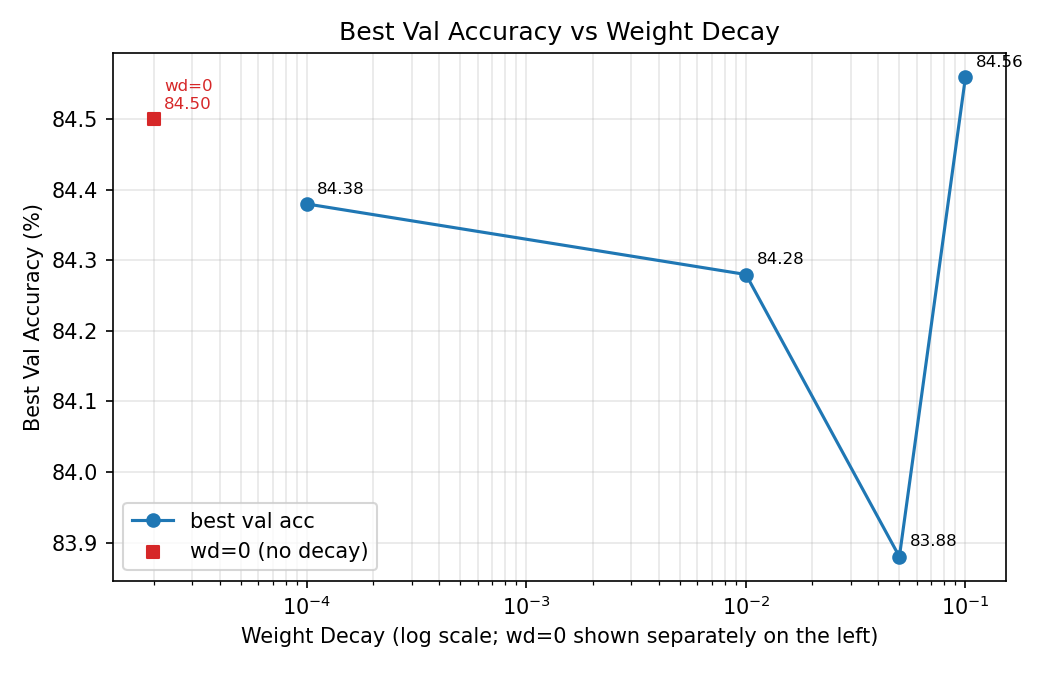
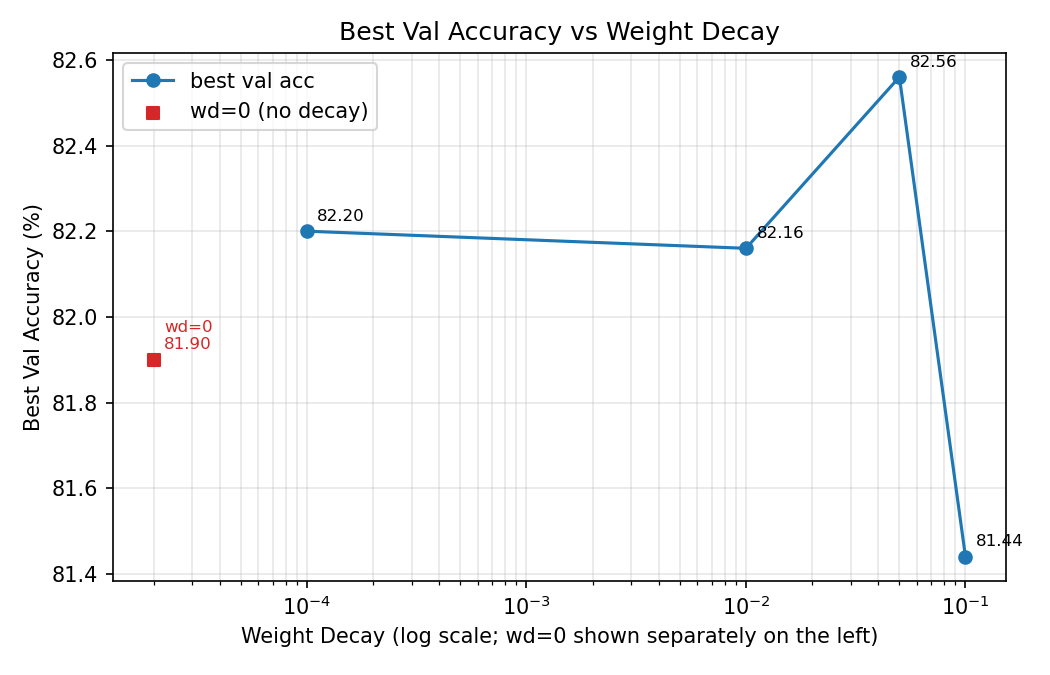
Report: weight decay 100-epoch main results, figures, and table updates.

diff --git a/sections/experiments_weight_decay.tex b/sections/experiments_weight_decay.tex
@@ -7,19 +7,23 @@
 This subsection reports the results of the weight-decay sweep defined in
 \cref{sec:method:wd}, evaluated under the shared protocol of
 \cref{sec:exp:training,sec:exp:eval}. The only variable that changes is
-the AdamW decoupled weight-decay coefficient $\lambda$.
+the AdamW decoupled weight-decay coefficient $\lambda$. Because the group
+baseline was later standardized to 100 epochs, we treat the 100-epoch
+sweep as the main result and keep the original 30-epoch sweep as a
+short-horizon reference.
 
 \paragraph{Aggregate numbers.}
-\Cref{tab:wd} reports best validation accuracy, final test accuracy,
-the train--val gap at the best-val epoch, and wall-clock training
-time for each weight-decay setting.
+\Cref{tab:wd} reports best validation accuracy, final test accuracy, and
+the train--val gap at the best-validation epoch for the 100-epoch sweep.
+The table also includes the original 30-epoch validation and test
+accuracy so that the effect of extending the training horizon is visible.
 
 \input{tables/wd_results}
 
 \paragraph{Learning curves.}
 \Cref{fig:wd-curves} shows the training and validation trajectories
 for the full sweep. The figure reports optimization behavior over the
-entire 30-epoch schedule for all five weight-decay settings.
+entire 100-epoch schedule for all five weight-decay settings.
 
 \begin{figure}[t]
   \centering
@@ -36,8 +40,9 @@ entire 30-epoch schedule for all five weight-decay settings.
   \end{minipage}
   \caption{Learning curves for the weight-decay sweep
   $\lambda \in \{0, 10^{-4}, 10^{-2}, 5\times 10^{-2}, 10^{-1}\}$.
-  The left panel reports loss and the right panel reports accuracy for
-  both training and validation.}
+  The plots show the 100-epoch runs, which are the main protocol used for
+  the final weight-decay analysis. The left panel reports loss and the
+  right panel reports accuracy for both training and validation.}
   \label{fig:wd-curves}
 \end{figure}
 
@@ -45,7 +50,10 @@ entire 30-epoch schedule for all five weight-decay settings.
 \Cref{fig:wd-gap} plots the train--val accuracy gap as a function of
 training epoch for each $\lambda$. A flat or shrinking gap at large
 $\lambda$ is direct evidence that weight decay is constraining
-memorization rather than just trading capacity for regularization.
+memorization rather than just trading capacity for regularization. In the
+100-epoch runs, all settings eventually develop a large gap of roughly
+11 percentage points, indicating substantial overfitting under the longer
+fine-tuning horizon.
 
 \begin{figure}[t]
   \centering
@@ -59,27 +67,41 @@ memorization rather than just trading capacity for regularization.
 \paragraph{Best validation accuracy as a function of $\lambda$.}
 \Cref{fig:wd-best-val} summarizes the sweep by plotting best
 validation accuracy against $\lambda$ on a log-x axis. This is the
-single plot that answers ``what coefficient should I pick?''
+single plot that answers ``what coefficient should I pick?'' under the
+100-epoch protocol.
 
 \begin{figure}[t]
   \centering
   \includegraphics[width=0.62\linewidth]{best_val_vs_wd.png}
   \caption{Best validation accuracy versus weight-decay strength
-  $\lambda$ for the 30-epoch sweep.}
+  $\lambda$ for the 100-epoch sweep.}
   \label{fig:wd-best-val}
 \end{figure}
 
 \paragraph{Results summary.}
-The aggregate numbers in \cref{tab:wd} place all five settings within a
-narrow accuracy range. The highest validation accuracy is obtained at
-$\lambda=10^{-1}$ with $84.56\%$, while the highest test accuracy is
-obtained at $\lambda=0$ with $84.75\%$. The near-baseline setting
-$\lambda=10^{-2}$ reaches a similar test accuracy of $84.74\%$. In
-terms of overfitting proxy, the smallest train--val gap at the
-best-validation epoch is also observed at $\lambda=10^{-1}$, whereas the
-wall-clock training times remain essentially identical across the sweep
-at approximately 31--32 minutes per run. The interpretation of these
-patterns is deferred to the later analysis section.
+Under the 100-epoch protocol, moderate weight decay provides a small but
+consistent improvement over the no-decay control. The baseline
+$\lambda=0$ reaches $81.90\%$ best validation accuracy and $81.81\%$ test
+accuracy. The best setting is $\lambda=5\times10^{-2}$, which reaches
+$82.56\%$ best validation accuracy and $82.23\%$ test accuracy, improving
+test accuracy by $0.42$ percentage points over the no-decay control.
+The nearby settings $\lambda=10^{-4}$ and $\lambda=10^{-2}$ also improve
+test accuracy by $0.40$ and $0.36$ percentage points, respectively. In
+contrast, $\lambda=10^{-1}$ drops to $81.25\%$ test accuracy, suggesting
+that overly strong decay begins to suppress useful model capacity.
+
+The 30-epoch sweep gives a different short-horizon picture: the
+no-decay control obtains the highest test accuracy ($84.75\%$), while
+nonzero decay values remain within a narrow band. This discrepancy
+should not be interpreted as a contradiction. Changing the total number
+of epochs also changes the cosine learning-rate trajectory
+($T_{\max}=E-3$ after the 3-epoch warmup), so the 100-epoch run is not
+merely the 30-epoch model trained for 70 additional epochs. Instead, the
+longer schedule exposes stronger overfitting, as shown by the train--val
+gap increasing from roughly 5 percentage points in the 30-epoch runs to
+roughly 11 percentage points in the 100-epoch runs. In this longer
+regime, moderate weight decay becomes mildly beneficial but still not a
+dominant source of generalization improvement.
 
 \paragraph{Limitations.}
 \label{sec:wd:limitations}
@@ -91,4 +113,5 @@ conclusions do not necessarily transfer to the longer, more strongly
 regularized training regime often used for DeiT-style recipes
 \citep{touvron2021deit}. The small absolute spread across neighboring
 $\lambda$ values is therefore itself a result: within this controlled
-30-epoch protocol, weight decay is not a dominant factor.
+fine-tuning setup, weight decay is a weak but measurable regularization
+knob rather than a dominant factor.

diff --git a/sections/comparison.tex b/sections/comparison.tex
@@ -31,29 +31,25 @@ to its own hyperparameter.
 
 \subsection{Weight Decay Analysis}
 \label{sec:comp:wd-analysis}
-Within the shared 30-epoch fine-tuning protocol, weight decay behaves as
-a weak regularization knob rather than a dominant driver of
-generalization. The best test accuracy remains the no-decay baseline
-($84.75\%$ at $\lambda=0$), while the closest nonzero setting,
-$\lambda=10^{-2}$, reaches $84.74\%$; this difference is too small to
-support a meaningful practical advantage for tuning weight decay in this
-regime. At the same time, the strongest decay in the sweep
-($\lambda=10^{-1}$) attains the highest validation accuracy
-($84.56\%$) and the smallest train--val gap ($4.97$ percentage points),
-showing that validation-selected and test-selected optima do not fully
-coincide.
+With the updated 100-epoch horizon, weight decay behaves as a weak but
+measurable regularization knob. The no-decay control reaches $81.81\%$
+test accuracy, while $\lambda=5\times10^{-2}$ reaches the best validation
+accuracy ($82.56\%$) and the best test accuracy ($82.23\%$). The absolute
+gain is modest ($+0.42$ percentage points), and the neighboring nonzero
+settings $\lambda=10^{-4}$ and $\lambda=10^{-2}$ obtain similar test
+accuracy ($82.21\%$ and $82.17\%$). This pattern suggests a broad,
+low-amplitude optimum rather than a sharply tuned coefficient.
 
-\Cref{fig:wd-best-val,fig:wd-gap} suggests that the main effect of
-stronger decay is a modest reduction in memorization rather than a large
-improvement in final accuracy. Relative to the baseline, $\lambda=10^{-1}$
-reduces the gap at the best-validation epoch by about $0.41$ percentage
-points while preserving competitive validation performance. However,
-$\lambda=5\times10^{-2}$ lowers both validation and test accuracy
-without reducing the gap, which is more consistent with capacity
-suppression than with useful regularization. Taken together, the sweep
-indicates that pretrained ViT-Tiny on CIFAR-100 is only mildly
-overfitting under this short training horizon, leaving limited room for
-weight decay to improve upon the baseline.
+\Cref{fig:wd-best-val,fig:wd-gap} also shows the cost of making the
+regularizer too strong. The aggressive setting $\lambda=10^{-1}$ drops
+to $81.25\%$ test accuracy, below the no-decay control. Its lower
+training accuracy indicates capacity suppression rather than useful
+regularization. Compared with the original 30-epoch sweep, the 100-epoch
+run exhibits a much larger train--val gap (about 11 percentage points
+instead of about 5), so moderate decay becomes more useful only after the
+longer schedule creates more overfitting pressure. Even then, the effect
+size remains small enough that the ranking should be treated cautiously
+without multi-seed confirmation.
 
 \subsection{Which Family Matters Most for ViT?}
 \label{sec:comp:discussion}

diff --git a/tables/wd_results.tex b/tables/wd_results.tex
@@ -1,27 +1,34 @@
 % Weight-decay sweep results. Owner: Member 2.
-% Replace -- placeholders with real numbers from the runs.
-% Convention: best value per column in \textbf{...}; consistent decimals.
+% Main protocol: 100 epochs. Original 30-epoch results retained as supplemental
+% evidence because they motivated the longer-run diagnostic.
 
 \begin{table}[t]
   \centering
   \small
   \caption{Effect of AdamW weight-decay strength $\lambda$ on
-  ViT-Tiny/16 fine-tuned on CIFAR-100. All other hyperparameters fixed
-  per \cref{sec:exp:training}. Best per column in bold.}
+  ViT-Tiny/16 fine-tuned on CIFAR-100. The 100-epoch sweep is the main
+  result; the original 30-epoch sweep is retained as a supplemental
+  short-horizon reference. Best values within the 100-epoch columns are
+  bolded.}
   \label{tab:wd}
   \resizebox{\columnwidth}{!}{%
-  \begin{tabular}{lcccc}
+  \begin{tabular}{lccccc}
     \toprule
-    Weight decay $\lambda$ & Best val acc (\%) $\uparrow$
-                          & Test acc (\%) $\uparrow$
-                          & Train--val gap (pp) $\downarrow$
-                          & Train time (min) \\
+    Weight decay $\lambda$
+      & \multicolumn{3}{c}{100 epochs}
+      & \multicolumn{2}{c}{30 epochs} \\
+    \cmidrule(lr){2-4}\cmidrule(lr){5-6}
+      & Best val (\%) $\uparrow$
+      & Test (\%) $\uparrow$
+      & Gap (pp) $\downarrow$
+      & Best val (\%) $\uparrow$
+      & Test (\%) $\uparrow$ \\
     \midrule
-    $0$                   & 84.50 & \textbf{84.75} & 5.38 & 31.5 \\
-    $10^{-4}$             & 84.38 & 84.31 & 5.28 & 31.5 \\
-    $10^{-2}$             & 84.28 & 84.74 & 5.54 & \textbf{31.3} \\
-    $5 \times 10^{-2}$    & 83.88 & 84.05 & 5.54 & 31.5 \\
-    $10^{-1}$             & \textbf{84.56} & 84.33 & \textbf{4.97} & 31.7 \\
+    $0$                   & 81.90 & 81.81 & 11.23 & 84.50 & 84.75 \\
+    $10^{-4}$             & 82.20 & 82.21 & 11.49 & 84.38 & 84.31 \\
+    $10^{-2}$             & 82.16 & 82.17 & 11.55 & 84.28 & 84.74 \\
+    $5 \times 10^{-2}$    & \textbf{82.56} & \textbf{82.23} & \textbf{11.02} & 83.88 & 84.05 \\
+    $10^{-1}$             & 81.44 & 81.25 & 11.36 & 84.56 & 84.33 \\
     \bottomrule
   \end{tabular}
   }

diff --git a/sections/experiments.tex b/sections/experiments.tex
@@ -42,8 +42,11 @@ regularization variable changes:
   \item \textbf{Learning rate:} base $3\times10^{-4}$ with a cosine schedule
         \citep{loshchilov2017sgdr} and a 3-epoch linear warmup from
         $0$.
-  \item \textbf{Schedule:} 30 epochs total, batch size 64, mixed
-        precision (AMP), gradient clipping at $\lVert g\rVert_2 = 1.0$.
+  \item \textbf{Schedule:} batch size 64, mixed precision (AMP),
+        gradient clipping at $\lVert g\rVert_2 = 1.0$. The initial
+        project protocol used 30 epochs; the final weight-decay analysis
+        additionally reports a 100-epoch sweep to match the updated
+        group baseline horizon.
   \item \textbf{Seed:} \texttt{42} for data split, model init of new
         head, and dataloader shuffling.
 \end{itemize}
